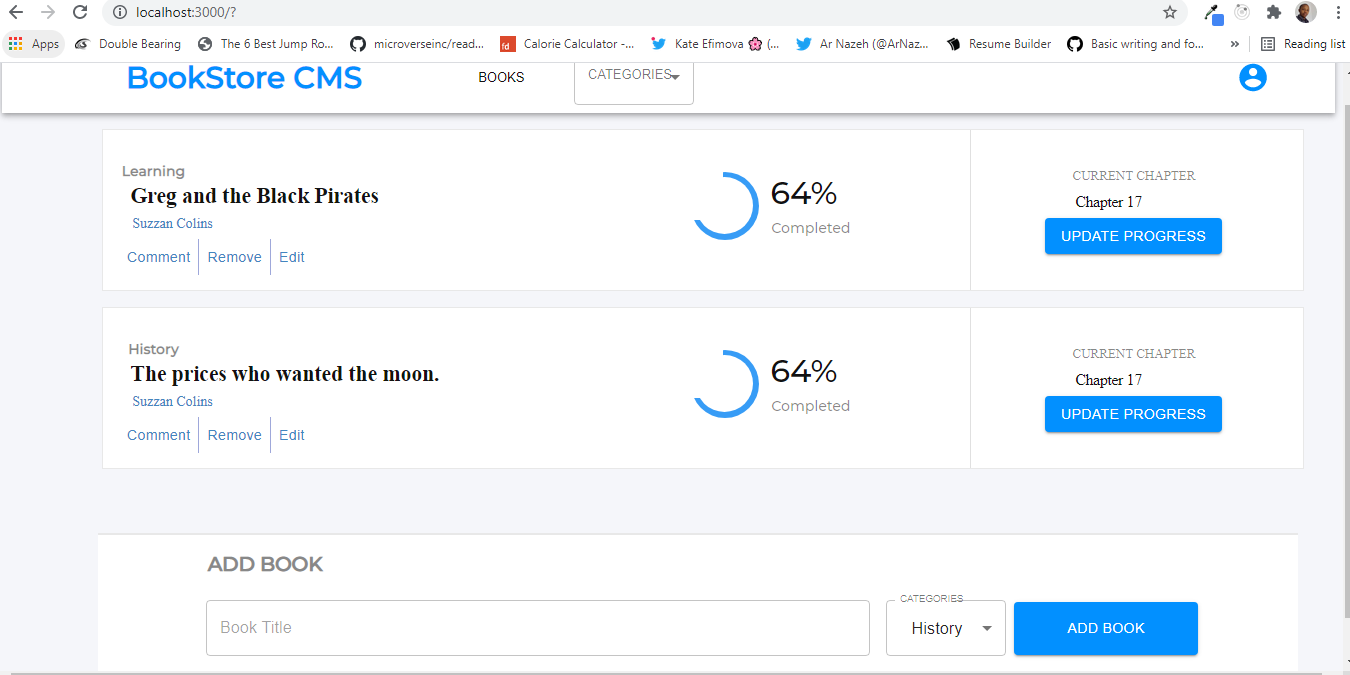
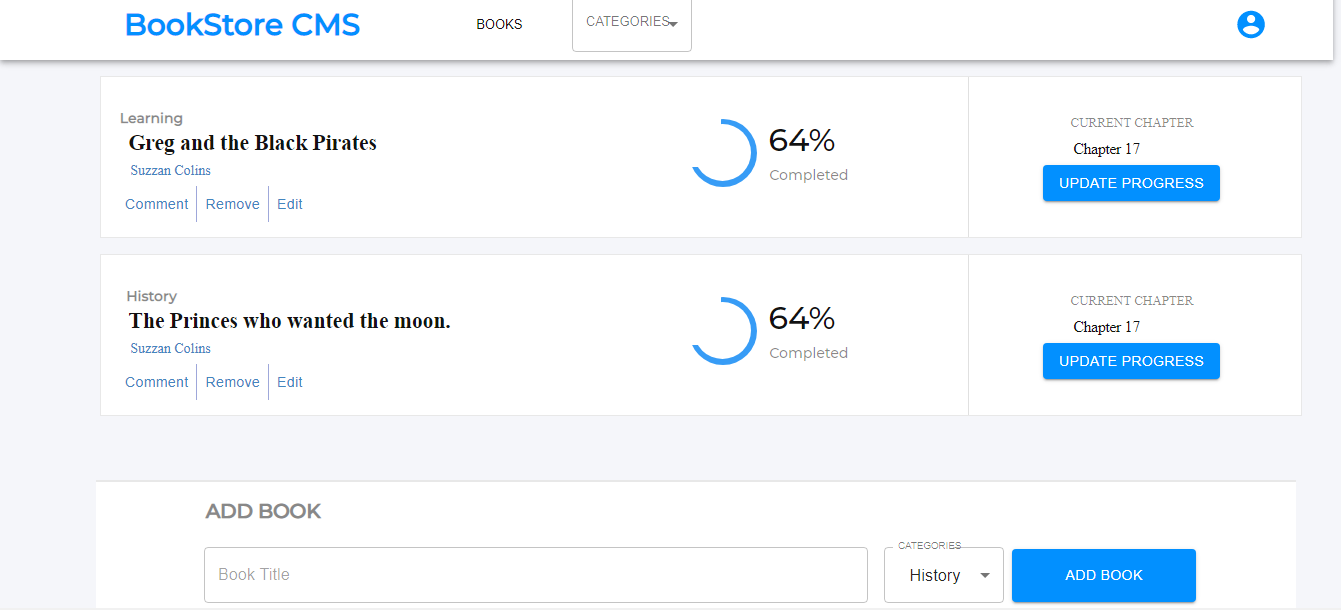
Update the readme file

diff --git a/src/containers/BookForm.js b/src/containers/BookForm.js
@@ -1,17 +1,9 @@
-/* eslint-disable no-unused-vars */
 import React, { useState } from 'react';
 import { useDispatch } from 'react-redux';
 import Select from '@material-ui/core/Select';
 import FormControl from '@material-ui/core/FormControl';
 import InputLabel from '@material-ui/core/InputLabel';
 import { Button, TextField, MenuItem } from '@material-ui/core';
-import Paper from '@material-ui/core/Paper';
-import InputBase from '@material-ui/core/InputBase';
-import Divider from '@material-ui/core/Divider';
-import IconButton from '@material-ui/core/IconButton';
-import MenuIcon from '@material-ui/icons/Menu';
-import SearchIcon from '@material-ui/icons/Search';
-import DirectionsIcon from '@material-ui/icons/Directions';
 import myStyle from '../stylesheet/style';
 import { bookCategories } from '../constants/constants';
 import { addBook } from '../actions';
@@ -44,7 +36,6 @@ function BookForm() {
       <form action="add-book" onSubmit={handleSubmit}>
         <div className="form-container">
           <TextField
-            // id="outlined-full-width"
             className={classes.textInput}
             style={{ margin: 8 }}
             placeholder="Book Title"

diff --git a/README.md b/README.md
@@ -38,10 +38,10 @@ Magic-books Inc. is a fictional company based in Germany. They have requested yo
 
 ### Features
 
-#### Milestone 4
-- Implement Filter
-  - Add filter state to the redux store
-  - Add Fiter action
+#### Milestone 5
+- Styling 
+  - Styling the navbar
+  - Styling the form
 - Creating the Filter component
   - Add filter component to the BookList component
     
